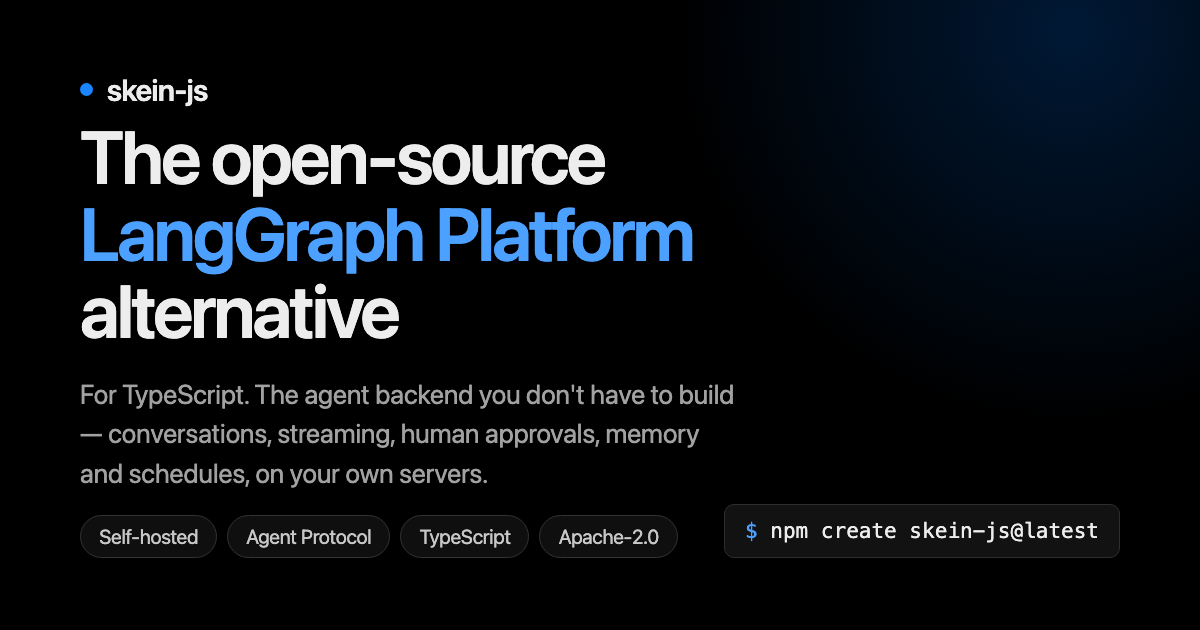
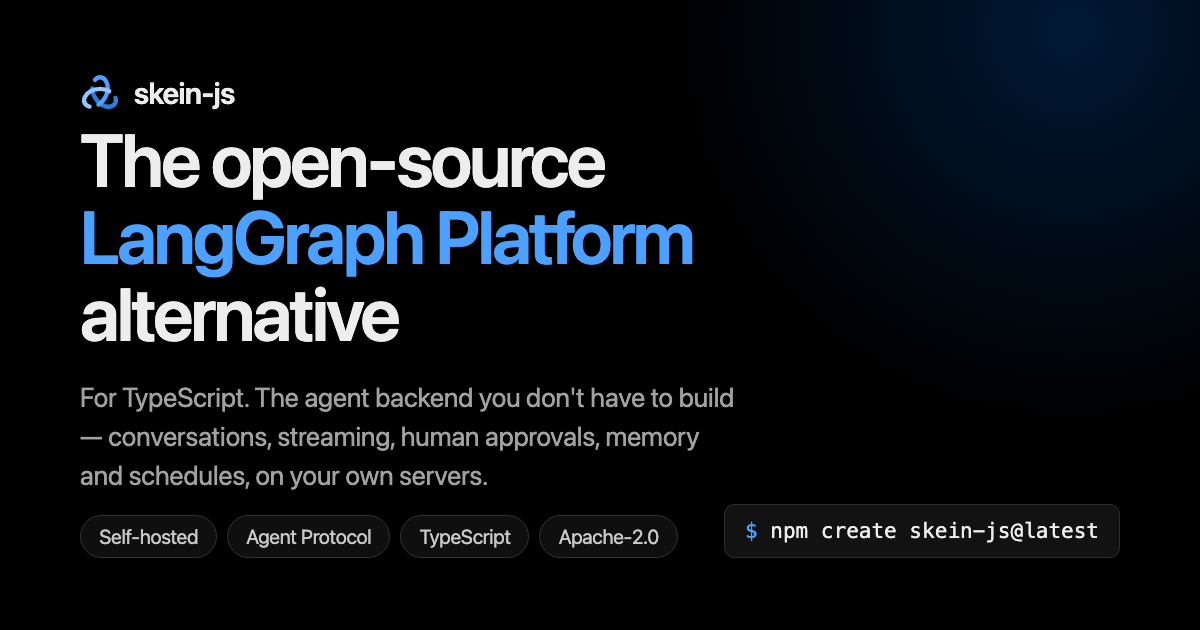
feat(docs): give skein-js a mark
A trefoil knot: one unbroken thread crossing itself three times, which is
what a skein is. It replaces the blue dot the OG card was using as a
stand-in wordmark.

Colour does a job rather than decorating. The crossings already split the
thread into exactly three arcs, so those arcs take three steps of the
existing accent and the strand reads as passing in front of and behind
itself — the same information the gaps carry. The middle step is the docs
link colour unchanged; the other two are one stop either side, so this
adds depth to the palette rather than a colour to it.

Three cuts, because a knot has more to lose at small sizes than a
letterform does:

- display (stroke 7, three-step ramp) — the site header, 32px and up
- icon (stroke 9.5, wider crossing gaps, flat blue) — favicon and below
- mono (currentColor) — print, embroidery, unknown grounds

Generated, not drawn, and committed as a generator for the same reason
og-card.html is: an asset nobody can regenerate is an asset that rots.
The curve is the trefoil parametrisation and each arc is emitted as cubic
Beziers straight from the derivative via the Hermite identity, so the only
error is the piece count — 0.01 of the 64-unit box at five pieces, and a
third the bytes of the equivalent polyline. Gaps are placed in arc length
rather than in t, since a constant-t gap is visibly wider where the curve
moves fastest.

The card now references docs/public/skein-knot-dark.svg instead of
[…]

diff --git a/docs/.vitepress/og-card.html b/docs/.vitepress/og-card.html
@@ -53,11 +53,11 @@
         align-items: center;
         gap: 14px;
       }
-      .dot {
-        width: 13px;
-        height: 13px;
-        border-radius: 50%;
-        background: hsl(212 100% 55%);
+      .mark {
+        width: 40px;
+        height: 40px;
+        display: block;
+        flex: none;
       }
       h1 {
         font-size: 74px;
@@ -114,7 +114,11 @@
   <body>
     <div class="glow"></div>
 
-    <div class="wordmark"><span class="dot"></span> skein-js</div>
+    <div class="wordmark">
+      <!-- Same file the site header uses, so the card cannot drift from the mark. -->
+      <img class="mark" src="../public/skein-knot-dark.svg" alt="" />
+      skein-js
+    </div>
 
     <div>
       <h1>The open-source <em>LangGraph Platform</em> alternative</h1>
